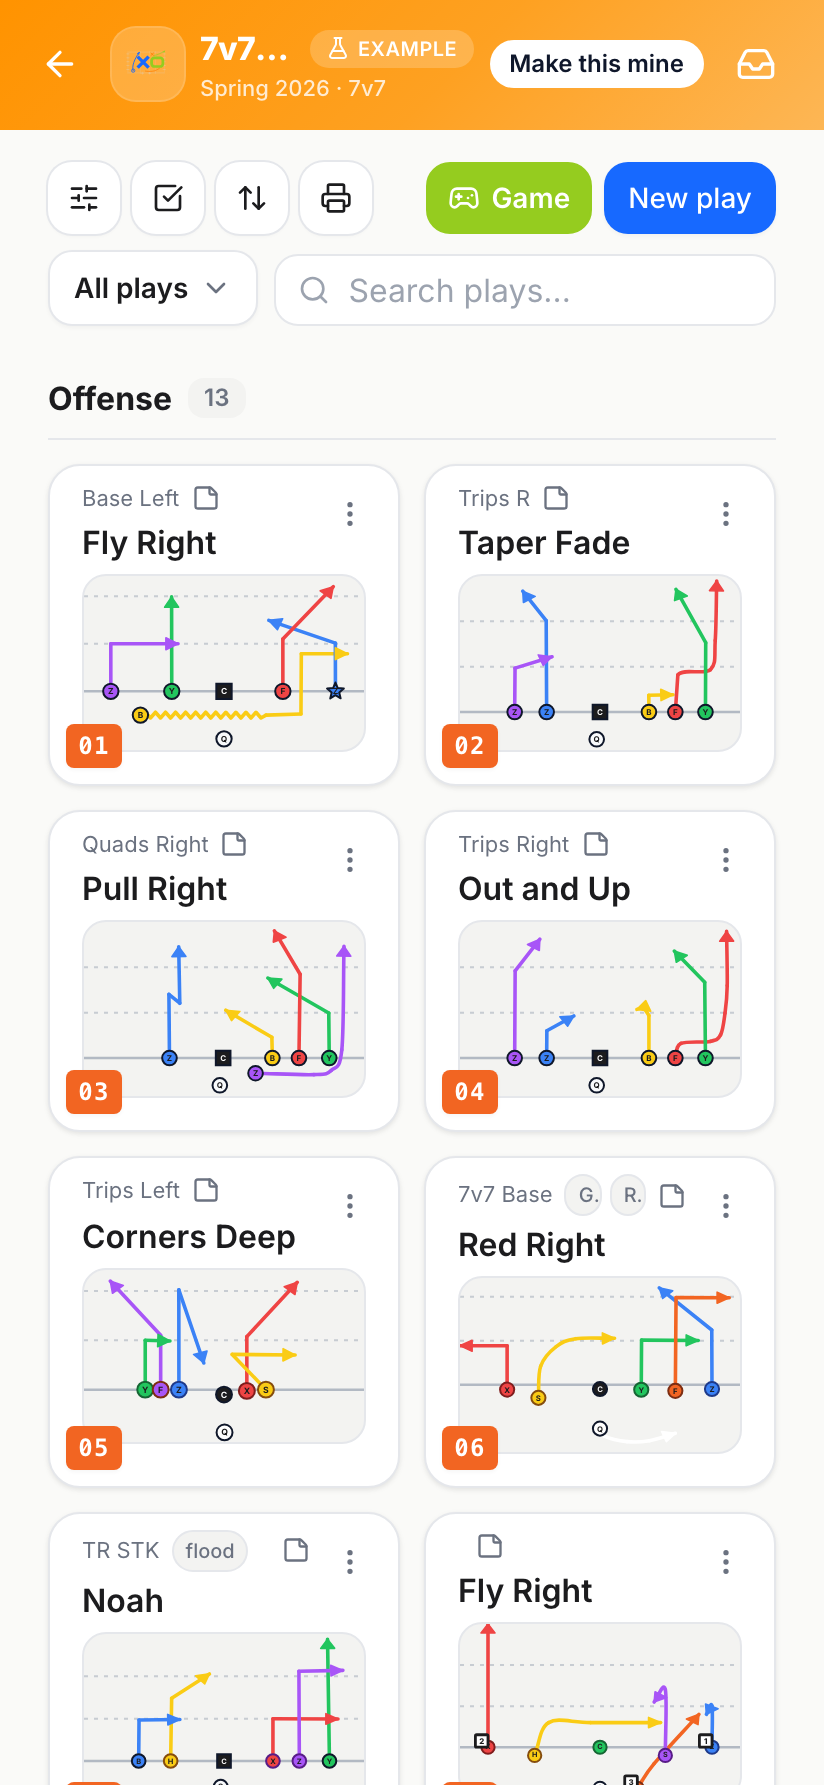
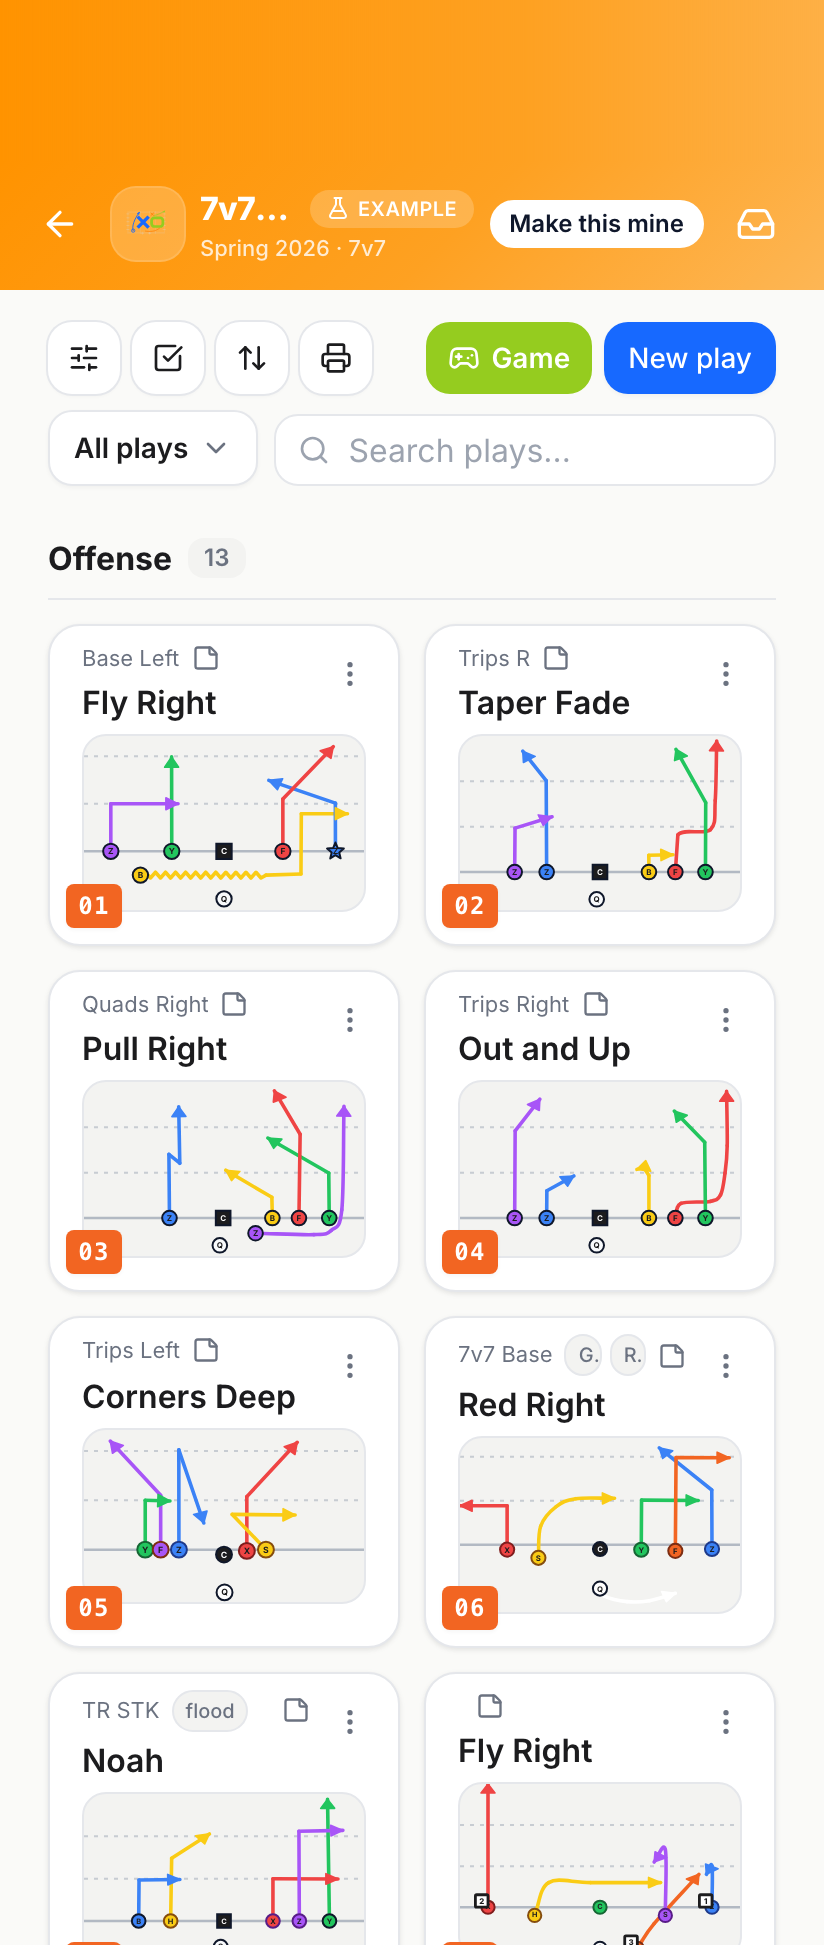
fix(home): Safari phone-frame rendering on the hero
- The hero's 3D tilt made Safari stop honouring PhoneFrame's rounded
  overflow-clip, so the screen's square bottom corners showed as a hard
  line under the phone. Give the clip its own compositing layer
  (translateZ(0) + backface-visibility:hidden) so it clips correctly.
- The phone notch was sitting on the app's orange header title. Extend
  the header screenshot with a status-bar safe area so the notch rests
  on clean orange with the title/buttons fully visible below it.

diff --git a/src/features/marketing/DeviceFrames.tsx b/src/features/marketing/DeviceFrames.tsx
@@ -19,7 +19,12 @@ export function PhoneFrame({
       style={{ aspectRatio: "9 / 19.5" }}
     >
       <div className="absolute left-1/2 top-2 z-10 h-4 w-20 -translate-x-1/2 rounded-full bg-black sm:top-3 sm:h-5 sm:w-24" />
-      <div className="relative h-full w-full overflow-hidden rounded-[26px] bg-white sm:rounded-[28px] md:rounded-[32px]">
+      {/* translateZ(0) + backface-visibility give this clip its own
+          compositing layer. Without it, Safari stops honouring the
+          rounded `overflow-hidden` clip when an ancestor has a 3D
+          transform (the hero's tilt) — the screen's square bottom
+          corners poke past the bezel as a hard line. */}
+      <div className="relative h-full w-full overflow-hidden rounded-[26px] bg-white [backface-visibility:hidden] [transform:translateZ(0)] sm:rounded-[28px] md:rounded-[32px]">
         {children}
       </div>
     </div>

diff --git a/src/app/page.tsx b/src/app/page.tsx
@@ -143,7 +143,7 @@ export default async function HomePage() {
                     src="/marketing/screens/phone-playbook-2col.png"
                     alt="A 7v7 playbook in XO Gridmaker — a two-column grid of play cards with route diagrams"
                     width={824}
-                    height={1785}
+                    height={1945}
                     priority
                     className="h-full w-full object-cover object-top"
                   />